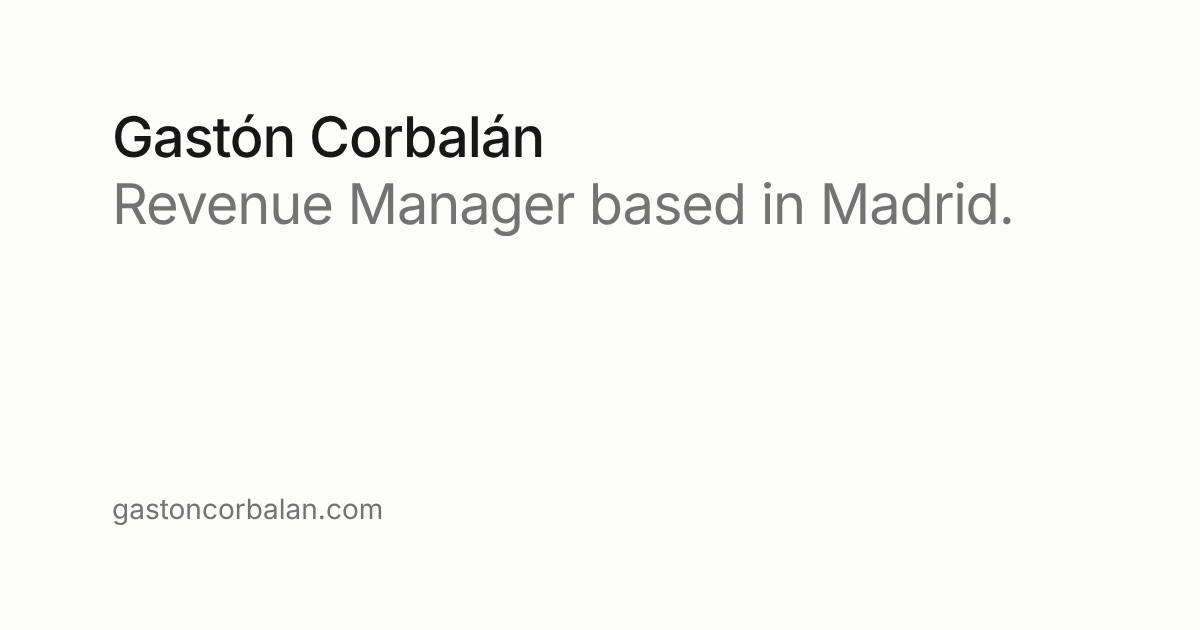
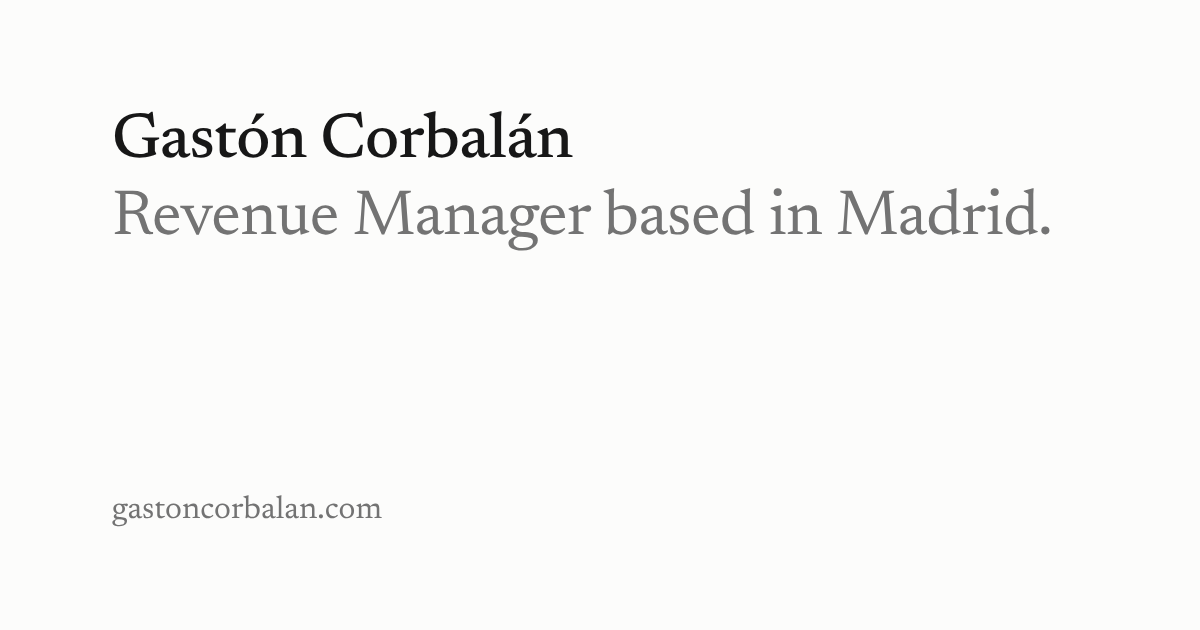
Use Newsreader as the site typeface
Swaps Inter for Newsreader across home, blog and the Open Graph image,
with an 18px base size to suit the serif.

Claude-Session: https://claude.ai/code/session_01XugjypeVTZBY7UsFDNLY82

Changed region(s): [[0.0925, 0.181, 0.8633, 0.3921], [0.0925, 0.7841, 0.3083, 0.8444]]

diff --git a/styles/styles.css b/styles/styles.css
@@ -1,6 +1,6 @@
 @import "tailwindcss";
 
-/* Minimal: one typeface, a narrow column, neutral tones. See design.md. */
+/* Minimal: one typeface (Newsreader), a narrow column, neutral tones. See design.md. */
 
 :root {
   --bg: #fcfcfb;
@@ -26,7 +26,7 @@
   --color-muted: var(--muted);
   --color-line: var(--line);
 
-  --font-sans: 'Inter', 'Helvetica Neue', Arial, sans-serif;
+  --font-serif: 'Newsreader', Georgia, 'Times New Roman', serif;
 }
 
 html {
@@ -34,16 +34,15 @@ html {
 }
 
 body {
-  font-family: var(--font-sans);
-  font-size: 15px;
-  line-height: 1.65;
+  font-family: var(--font-serif);
+  font-size: 18px;
+  line-height: 1.6;
   background-color: var(--bg);
   color: var(--fg);
   max-width: 36rem;
   margin: 0 auto;
   padding: 0 1.25rem;
   -webkit-font-smoothing: antialiased;
-  font-feature-settings: 'cv11', 'ss01';
 }
 
 ::selection {

diff --git a/pages/_document.js b/pages/_document.js
@@ -43,7 +43,7 @@ class MyDocument extends Document {
                     />
                     <link rel="preconnect" href="https://fonts.gstatic.com" />
                     <link
-                        href="https://fonts.googleapis.com/css2?family=Inter:wght@400;500;600&display=swap"
+                        href="https://fonts.googleapis.com/css2?family=Newsreader:ital,opsz,wght@0,6..72,400;0,6..72,500;0,6..72,600;1,6..72,400&display=swap"
                         rel="stylesheet"
                     />
                 </Head>

diff --git a/design.md b/design.md
@@ -1,6 +1,6 @@
 # Design System: Minimal
 
-Inspired by kyusuf.com: one typeface, a narrow column, neutral tones and very little decoration. The content carries the page.
+Inspired by kyusuf.com: one typeface (Newsreader), a narrow column, neutral tones and very little decoration. The content carries the page.
 
 ## Principles
 - **Quiet:** no display type, no colored blocks, no emojis. Hierarchy comes from weight (400/500) and the muted tone, not size.
@@ -18,7 +18,7 @@ Inspired by kyusuf.com: one typeface, a narrow column, neutral tones and very li
 Dark mode follows the system (`prefers-color-scheme`).
 
 ## Typography
-- **Inter** (400, 500, 600) for everything, 15px base, 1.65 line height.
+- **Newsreader** (400, 500, 600, italic 400) for everything, 18px base, 1.6 line height.
 - Page titles and post headings use weight 500 at roughly body size.
 
 ## Blog posts

diff --git a/CLAUDE.md b/CLAUDE.md
@@ -30,13 +30,13 @@ tailwind.config.js → Content paths (tokens live in styles.css)
 ```
 
 ## Design System
-See `design.md`. Minimal style inspired by kyusuf.com: Inter only, 36rem column, neutral colors.
+See `design.md`. Minimal style inspired by kyusuf.com: Newsreader only, 36rem column, neutral colors.
 
 ### Colors (CSS variables → Tailwind tokens)
 - `bg`, `fg`, `muted`, `line`, defined in `styles/styles.css` with light and dark (`prefers-color-scheme`) values
 
 ### Fonts
-- **Everything:** Inter (400/500/600)
+- **Everything:** Newsreader (400/500/600, italic 400)
 
 ## Commands
 ```bash
